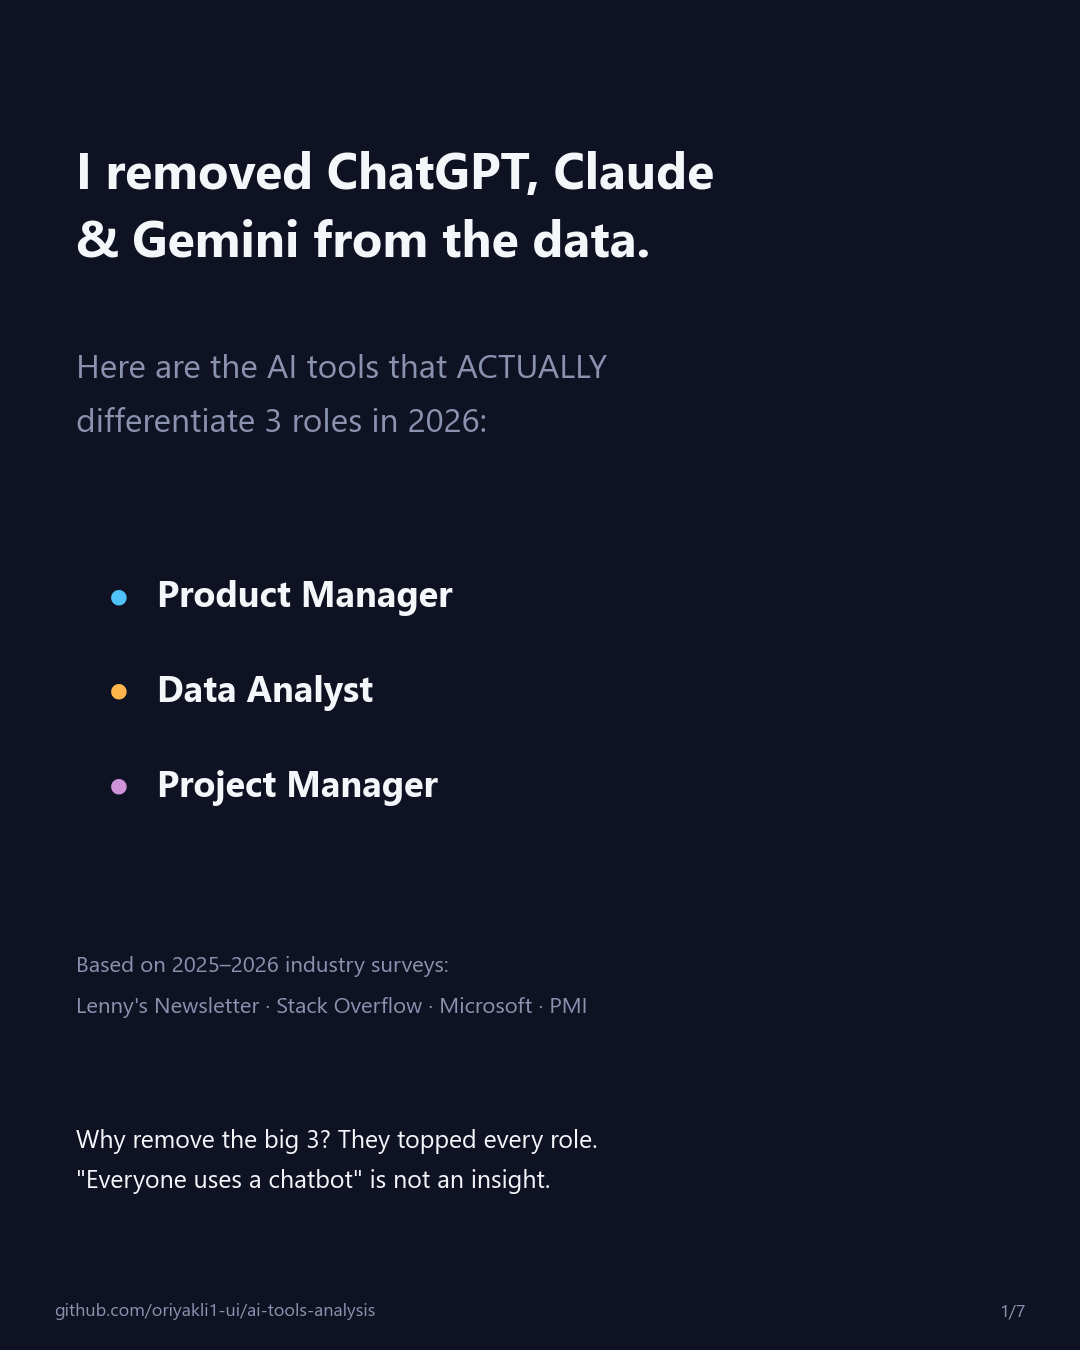
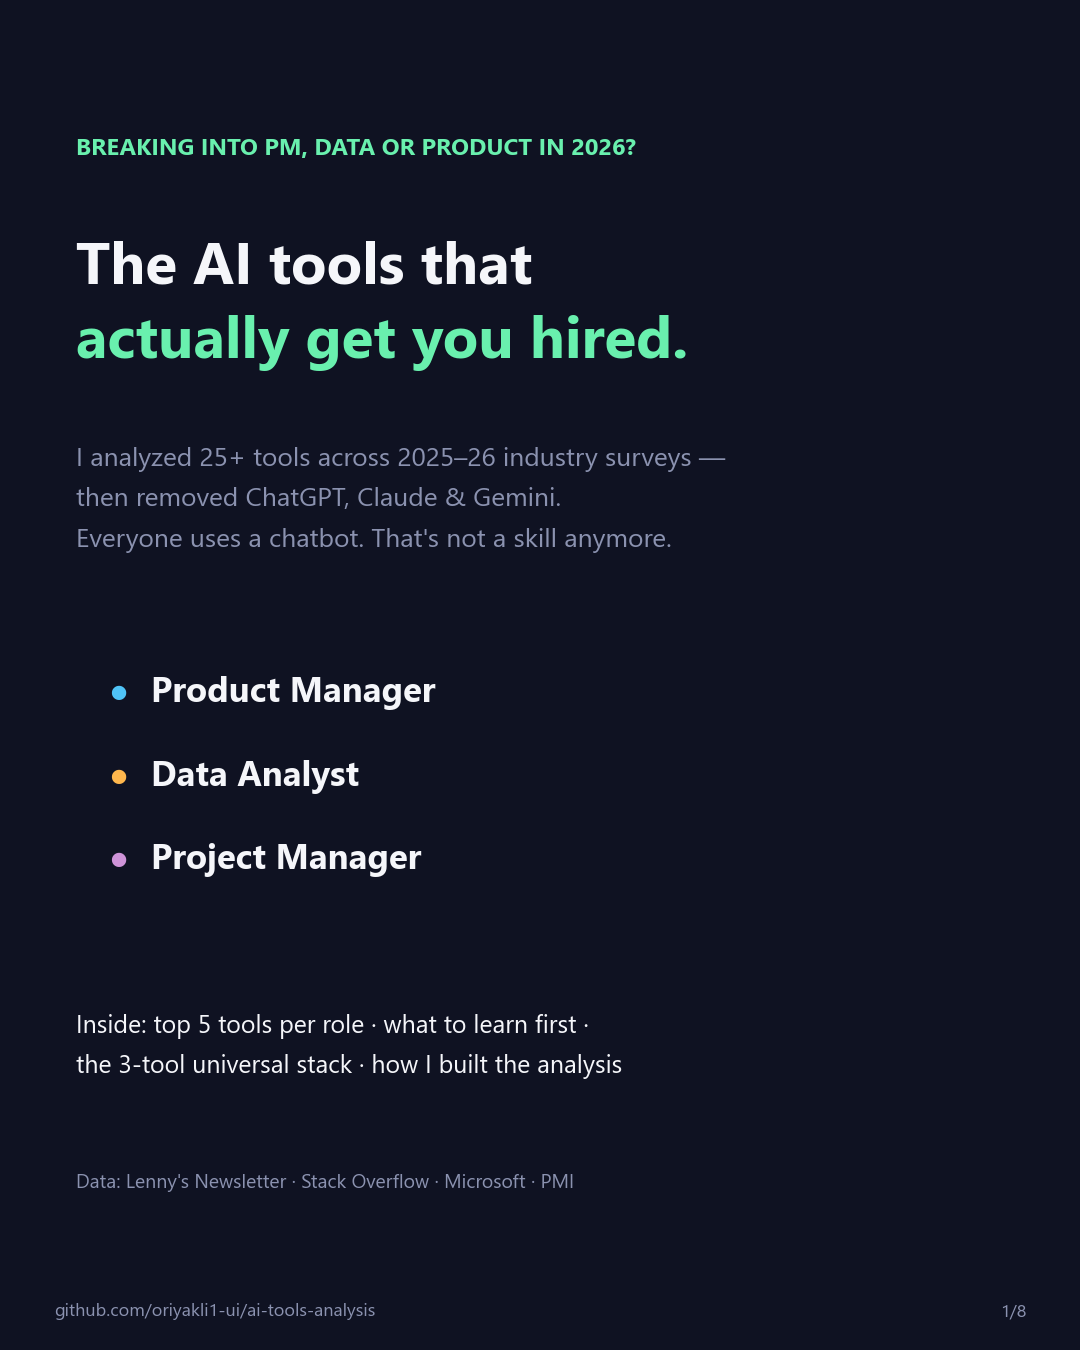
Redesign carousel for job-seeker value and recruiter appeal
8 slides: career-focused cover, learn-these-first chips per role,
hero numbers, how-I-built-it portfolio slide, save/tag CTA.
LinkedIn caption rewritten in English.

diff --git a/linkedin_post.md b/linkedin_post.md
@@ -1,28 +1,43 @@
-# LinkedIn Post Draft
+# LinkedIn Carousel Post
+
+**Format:** document (carousel) post — upload the 8 slides from `carousel/` as a PDF or images, with the text below as the caption.
 
 ---
 
-**I analyzed 25+ AI tools across 3 roles — PMs, Data Analysts, and Project Managers. Then I deleted ChatGPT, Claude, and Gemini from the data.**
+I removed ChatGPT, Claude and Gemini from my dataset. On purpose.
 
-Why? They topped every single role. "Everyone uses a chatbot" is not an insight. The interesting question is what comes next.
+I spent the last week analyzing which AI tools actually matter for 3 of the most in-demand roles — Product Managers, Data Analysts, and Project Managers — using 2025–26 survey data (Lenny's Newsletter, Stack Overflow, Microsoft, PMI).
 
-I pulled together 2025 survey data (Lenny's Newsletter, Stack Overflow, Microsoft's Copilot Usage Report, PMI) into a structured dataset, ran SQL analysis, and built a Power BI dashboard.
+First finding: the big chatbots topped every single role. Which tells you nothing. "Everyone uses a chatbot" is not a skill anymore — it's the baseline.
 
-🔍 3 key insights:
+So I cut them, and looked at what actually differentiates these roles. That's where it gets interesting:
 
-1⃣ **Microsoft Copilot is the real workhorse.** With the generic chatbots out, it's #1 for all three roles (33–42% adoption) — AI wins by being embedded in Office/Teams, not by being a destination.
+→ Microsoft Copilot is the real #1 in all three roles (33–42%). AI wins by living inside your workflow, not by being a destination.
 
-2⃣ **The "universal stack" is tiny: just 3 tools.** Microsoft Copilot, Perplexity, GitHub Copilot. Everything else is role-specific — data analysts put 57% of their AI usage into BI tools (Power BI Copilot, Tableau AI) and 25% into coding assistants; project managers put 72% into embedded productivity AI (meeting bots, Jira/Asana AI).
+→ The "universal stack" is tiny — just 3 tools cross all roles: MS Copilot, Perplexity, GitHub Copilot. Safe bets on any CV.
 
-3⃣ **The GenAI wave already caught up.** Tools launched since 2023 now match pre-GenAI incumbents in average adoption — the gap closed in under three years.
+→ After that, the stacks diverge completely. Analysts: 57% BI AI + 25% coding assistants. Product managers: research, docs and prototyping AI. Project managers: 72% embedded workflow AI (meeting bots, Jira/Asana AI).
 
-📊 Full analysis — dataset (CSV), 7 SQL queries, Power BI dashboard spec, methodology:
-👉 https://github.com/oriyakli1-ui/ai-tools-analysis
+If you're breaking into one of these roles, the full breakdown is in the carousel — including what to learn first for each role, and how I built the analysis (CSV → SQL → Power BI, all open on GitHub).
 
-Explore the full analysis and tell me — which tool is missing from your stack?
+📌 Save this for your next application cycle.
+🔁 Tag a friend who's job hunting in PM, data or product.
 
-#AI #ProductManagement #DataAnalytics #ProjectManagement #PowerBI #SQL #AITools #DataDriven
+Full dataset, SQL queries and Power BI guide (free):
+https://github.com/oriyakli1-ui/ai-tools-analysis
+
+#AITools #ProductManagement #DataAnalytics #ProjectManagement #CareerGrowth #JobSearch #SQL #PowerBI
 
 ---
 
-**Attach:** `dashboard/screenshots/top5_per_role.png`, `universal_stack.png`, `category_mix.png` (or Power BI page screenshots once built).
+**Slides to upload (in order):**
+1. `01_cover.png` — hook
+2. `02_role_product.png` — PM top 5 + learn-first
+3. `03_role_data.png` — Data Analyst top 5 + learn-first
+4. `04_role_project.png` — Project Manager top 5 + learn-first
+5. `05_universal_stack.png` — the "only 3" slide
+6. `06_category_mix.png` — skill-set divergence
+7. `07_how_built.png` — portfolio/credibility slide
+8. `08_takeaways_cta.png` — takeaways + save/tag CTA
+
+**Tip:** post the GitHub link in the first comment too — LinkedIn slightly deprioritizes posts with external links; the comment link keeps reach while staying clickable.
